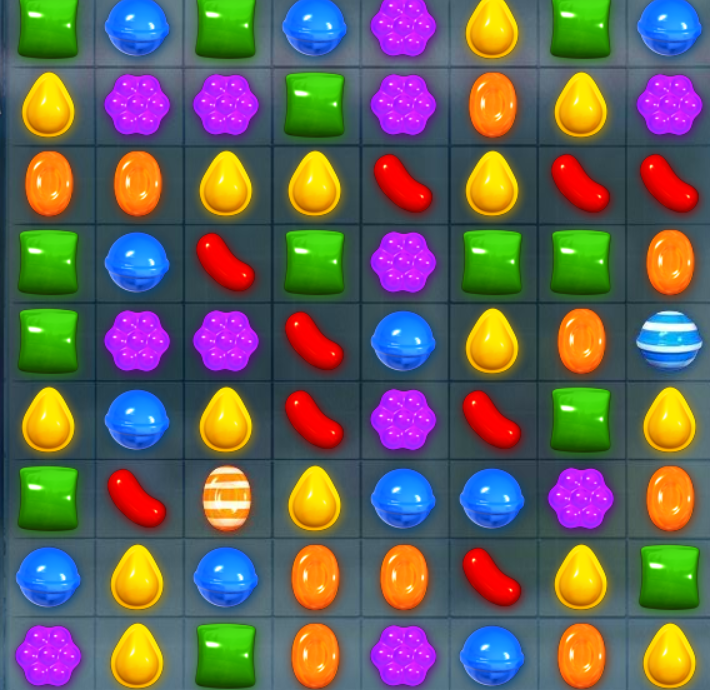
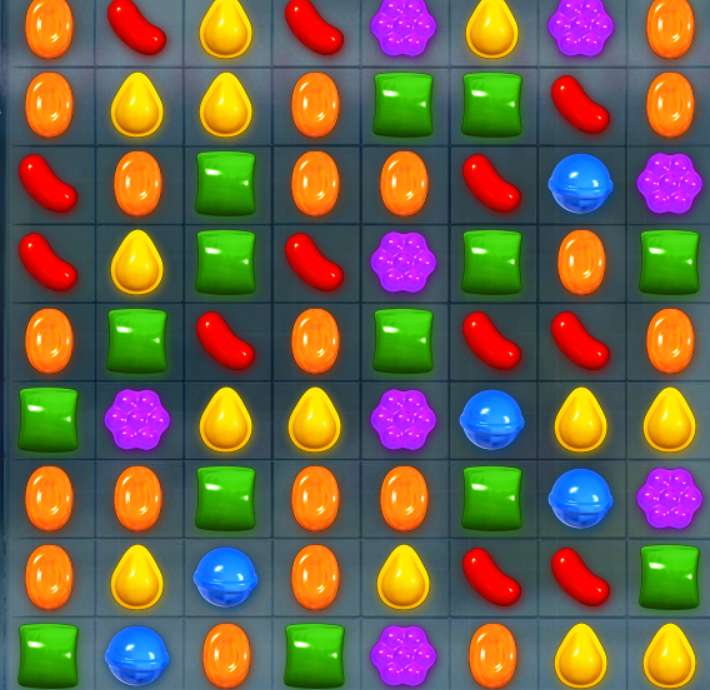
basic candies matched

diff --git a/detect.py b/detect.py
@@ -3,28 +3,154 @@ import time
 from PIL import Image, ImageDraw
 
 
-def testSensor():
-    #time.sleep(3)
-        
-    #pic = pyautogui.screenshot(region = (125,60,710,690))
 
-    #pic.save('game.png')
+def identifyCandy(r,g,b):
+
+    if(r in range(500,700) and g in range(350,450) and b in range(200,300)):
+        return "chocolate"
+
+    elif( r in range(1100,1276) and g in range(1000,1200) and b in range(700,1000)):
+        return "special orange"
+    
+    elif( r in range(400,700) and g in range(800,1100) and b in range(1000,1276)):
+        return "special orange"
+    
+    elif( r in range(900,1100) and g in range(250,400) and b in range(1200,1276)):
+        return "special violet"
+    
+    elif( r in range(900,1000) and g in range(100,270) and b in range(1270,1276)):
+        return "violet"
+    
+    elif( r in range(1220,1276) and g in range(900,1270) and b in range(0,270)):
+        return "yellow"
+    
+    elif( r in range(1000,1276) and g in range(0,30) and b in range(0,10)):
+        return "red"
+    
+    elif( r in range(200,280) and g in range(770,920) and b in range(0,10)):
+        return "green"
+    
+    elif( r in range(1270,1276) and g in range(700,900) and b in range(50,380)):
+        return "orange"
+    
+    elif( r in range(100,255) and g in range(540,800) and b in range(1200,1276)):
+        return "blue"
+    
+    else:
+        return "no match"
+
+
+
+
+def testSensor():
+    time.sleep(3)
+        
+    pic = pyautogui.screenshot(region = (125,60,710,690))
+
+    pic.save('game.png')
 
     image = Image.open('game.png')
 
     width, height = image.size
 
+
     new_color = (255, 255, 255)
 
+    draw = ImageDraw.Draw(image)
+
+    counter_x=0
+    counter_y=0
+    total_r=0
+    total_g=0
+    total_b=0
+
+    max_blue_r=0
+    max_blue_g=0
+    max_blue_b=0
+
+    min_blue_r=256
+    min_blue_g=256
+    min_blue_b=256
+
     for x in range(45,width,88):
+        
         for y in range(25,height,80):
+            
+            if((counter_y==6 and counter_x==2)):
+                new_color=(0,0,0)
+
+            else:
+                new_color=(255,255,255)
+            
             r,g,b = image.getpixel((x,y))
-            print("Pixel: ({},{},{})".format(r,g,b))
-            draw = ImageDraw.Draw(image)
+            total_b+=b
+            total_r+=r
+            total_g+=g
+            #print("Pixel: ({},{},{})".format(r,g,b))
             draw.point((x, y), fill=new_color)
+
+            
+            r,g,b = image.getpixel((x,y+5))
+            total_b+=b
+            total_r+=r
+            total_g+=g
+            #print("Pixel: ({},{},{})".format(r,g,b))
+            draw.point((x, y+5), fill=new_color)
+
+            
+            r,g,b = image.getpixel((x,y-5))
+            total_b+=b
+            total_r+=r
+            total_g+=g
+            #print("Pixel: ({},{},{})".format(r,g,b))
+            draw.point((x, y-5), fill=new_color)
+            
+            r,g,b = image.getpixel((x+5,y))
+            total_b+=b
+            total_r+=r
+            total_g+=g
+            #print("Pixel: ({},{},{})".format(r,g,b))
+            draw.point((x+5, y), fill=new_color)
+            
+            r,g,b = image.getpixel((x-5,y))
+            draw.point((x-5, y), fill=new_color)
+            total_b+=b
+            total_r+=r
+            total_g+=g
+            #print("Pixel: ({},{},{})".format(r,g,b))
+
+            
+            candy = identifyCandy(total_r,total_g,total_b)
+
+            #print("Candy[{}][{}] with({},{},{})".format(counter_y,counter_x,total_r,total_g,total_b))
+
+            if(candy=="no match"):
+                print("Candy[{}][{}] with({},{},{})".format(counter_y,counter_x,total_r,total_g,total_b))
+            
+            else:
+                print("Candy[{}][{}]: {}".format(counter_y,counter_x,candy))
+
+
+            counter_y+=1
+            total_r=0
+            total_g=0
+            total_b=0
+
+
+        counter_y=0
+        counter_x+=1
+        
+
 
     image.save('game modified.png')
 
 
 
 testSensor()
+
+# blue if((counter_y==0 and counter_x==1) or (counter_y==0 and counter_x==3) or (counter_y==0 and counter_x==7) or (counter_y==3 and counter_x==1) or (counter_y==4 and counter_x==4) or (counter_y==5 and counter_x==1) or (counter_y==6 and counter_x==4) or (counter_y==6 and counter_x==5) or (counter_y==7 and counter_x==0) or (counter_y==7 and counter_x==2) or (counter_y==8 and counter_x==5)):
+# green if((counter_y==0 and counter_x==0) or (counter_y==0 and counter_x==2) or (counter_y==0 and counter_x==6) or (counter_y==1 and counter_x==3) or (counter_y==3 and counter_x==0) or (counter_y==3 and counter_x==3) or (counter_y==3 and counter_x==5) or (counter_y==3 and counter_x==6) or (counter_y==4 and counter_x==0) or (counter_y==5 and counter_x==6) or (counter_y==6 and counter_x==0) or (counter_y==7 and counter_x==7) or (counter_y==8 and counter_x==2)):
+# orange if((counter_y==1 and counter_x==5) or (counter_y==2 and counter_x==0) or (counter_y==2 and counter_x==1) or (counter_y==3 and counter_x==7) or (counter_y==4 and counter_x==6) or (counter_y==6 and counter_x==7) or (counter_y==7 and counter_x==3) or (counter_y==7 and counter_x==4) or (counter_y==8 and counter_x==3) or (counter_y==8 and counter_x==6)):
+# red if((counter_y==2 and counter_x==4) or (counter_y==2 and counter_x==6) or (counter_y==2 and counter_x==7) or (counter_y==3 and counter_x==2) or (counter_y==4 and counter_x==3) or (counter_y==5 and counter_x==3) or (counter_y==5 and counter_x==5) or (counter_y==6 and counter_x==1) or (counter_y==7 and counter_x==5)): 
+# yellow if((counter_y==0 and counter_x==5) or (counter_y==1 and counter_x==0) or (counter_y==1 and counter_x==6) or (counter_y==2 and counter_x==2) or (counter_y==2 and counter_x==3) or (counter_y==2 and counter_x==5) or (counter_y==4 and counter_x==5) or (counter_y==5 and counter_x==0) or (counter_y==5 and counter_x==2) or (counter_y==5 and counter_x==7) or (counter_y==6 and counter_x==3) or (counter_y==7 and counter_x==1) or (counter_y==7 and counter_x==6) or (counter_y==8 and counter_x==1) or (counter_y==8 and counter_x==7)): 
+# violet if((counter_y==0 and counter_x==4) or (counter_y==1 and counter_x==1) or (counter_y==1 and counter_x==2) or (counter_y==1 and counter_x==4) or (counter_y==1 and counter_x==7) or (counter_y==3 and counter_x==4) or (counter_y==4 and counter_x==1) or (counter_y==4 and counter_x==2) or (counter_y==5 and counter_x==4) or (counter_y==6 and counter_x==6) or (counter_y==8 and counter_x==0) or (counter_y==8 and counter_x==4)):
